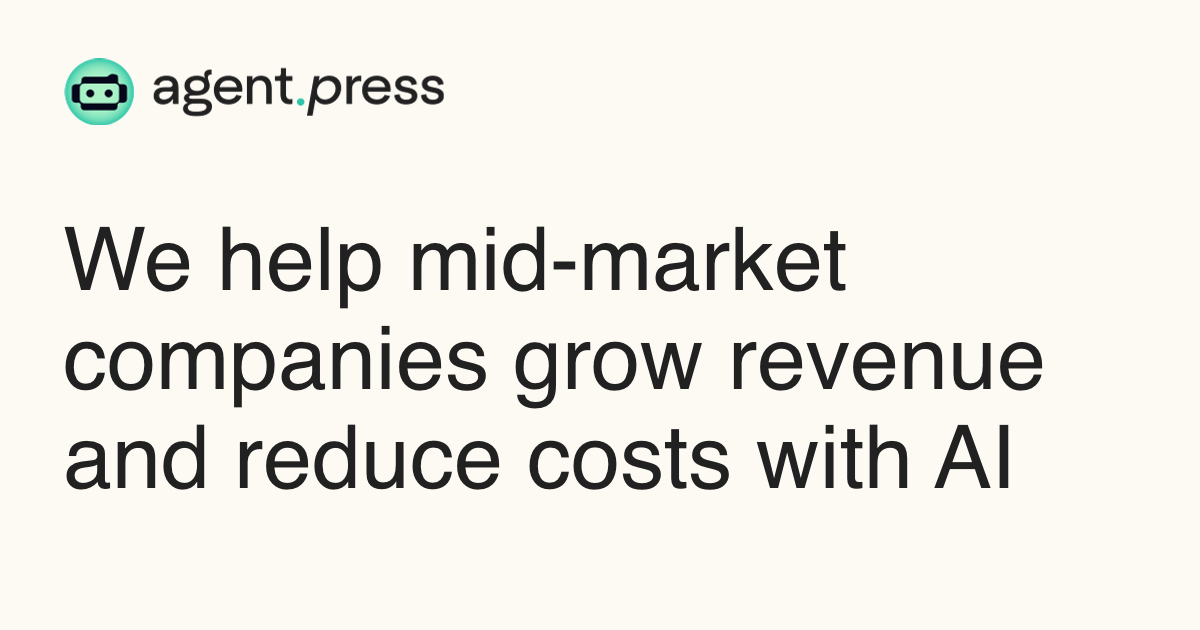
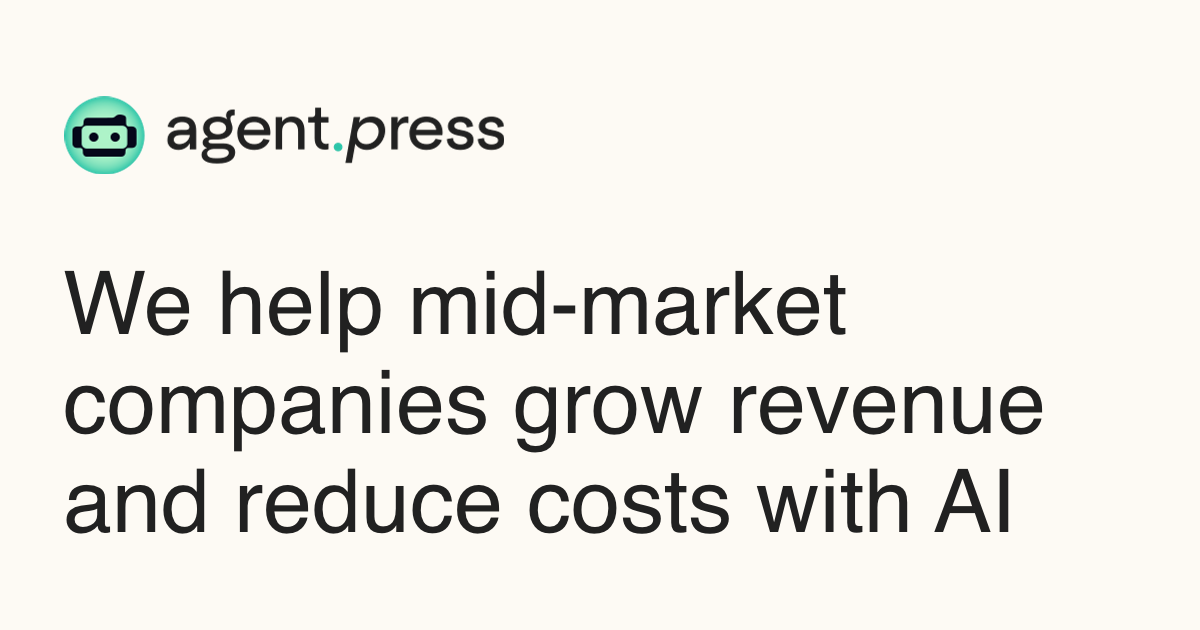
Enlarge and vertically center the homepage OG composition

Changed region(s): [[0.0308, 0.3619, 0.8942, 0.8444], [0.0308, 0.0905, 0.4317, 0.2714]]

diff --git a/src/lib/site-metadata.ts b/src/lib/site-metadata.ts
@@ -3,7 +3,7 @@ import type { Metadata } from 'next';
 export const siteUrl = 'https://www.agent.press';
 export const siteTitle = 'AgentPress | AI Automation for Mid-Market Companies';
 export const siteDescription = 'Grow revenue and reduce costs with AI. AgentPress finds high-value workflows, validates the business case, and builds and supports your automation.';
-export const socialImage = `${siteUrl}/agentpress_og_ai_automation_v2.png`;
+export const socialImage = `${siteUrl}/agentpress_og_ai_automation_v3.png`;
 export const socialImageAlt = 'We help mid-market companies grow revenue and reduce costs with AI';
 
 const routeDescriptions: Record<string, string> = {
